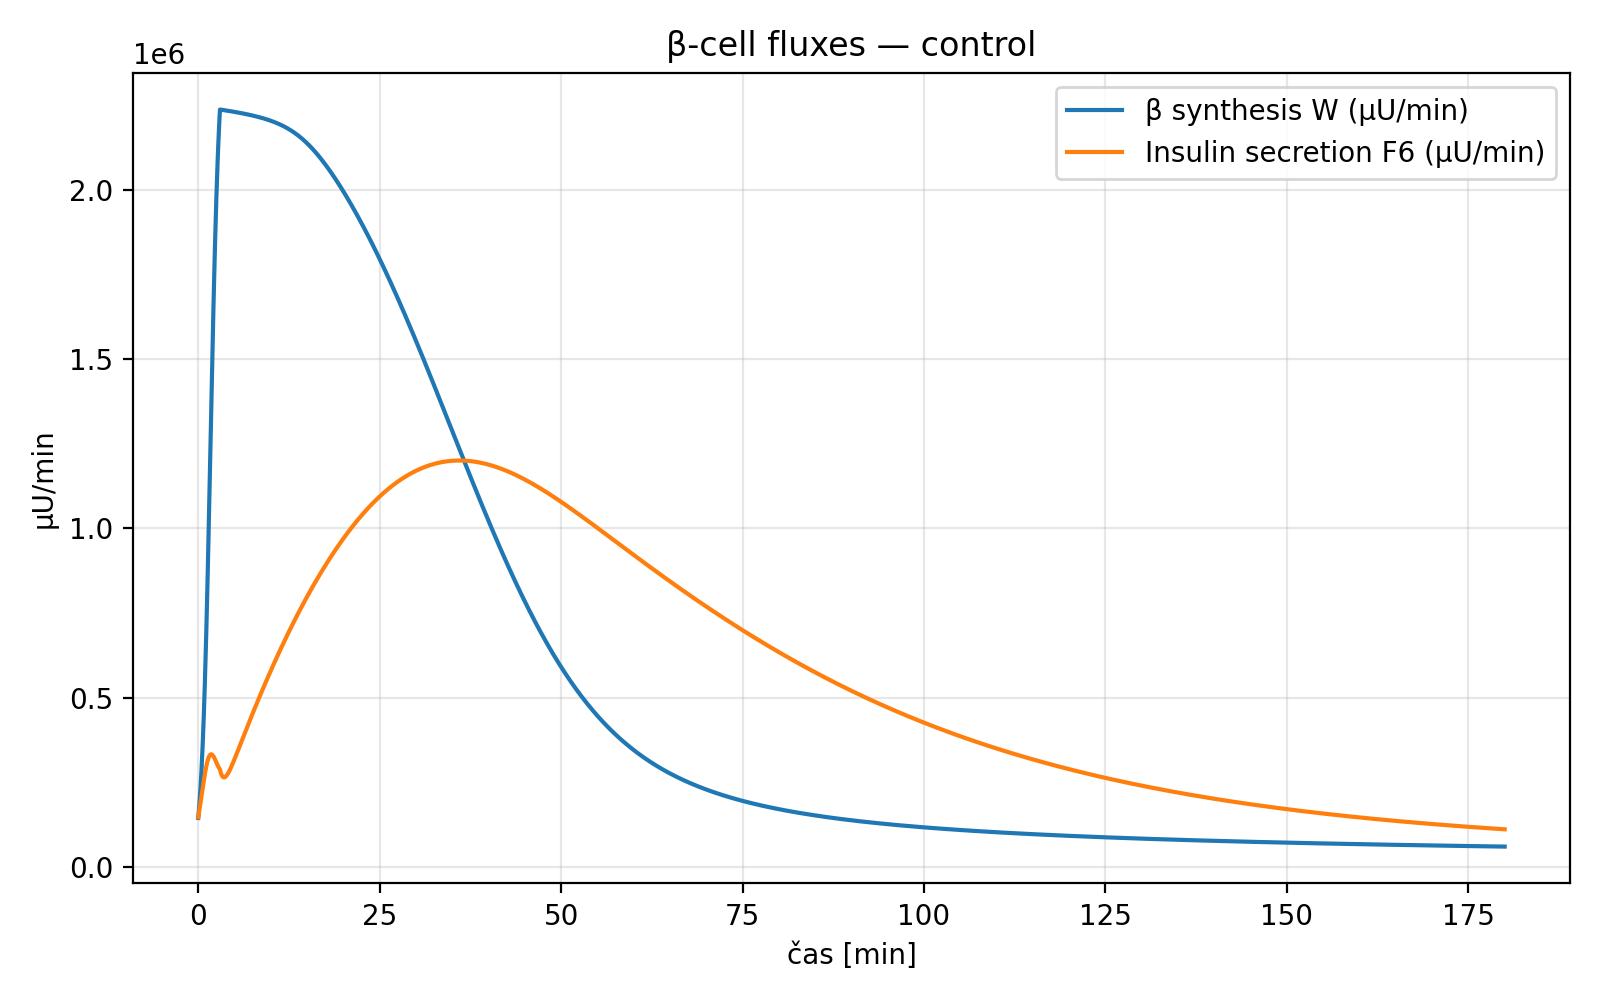
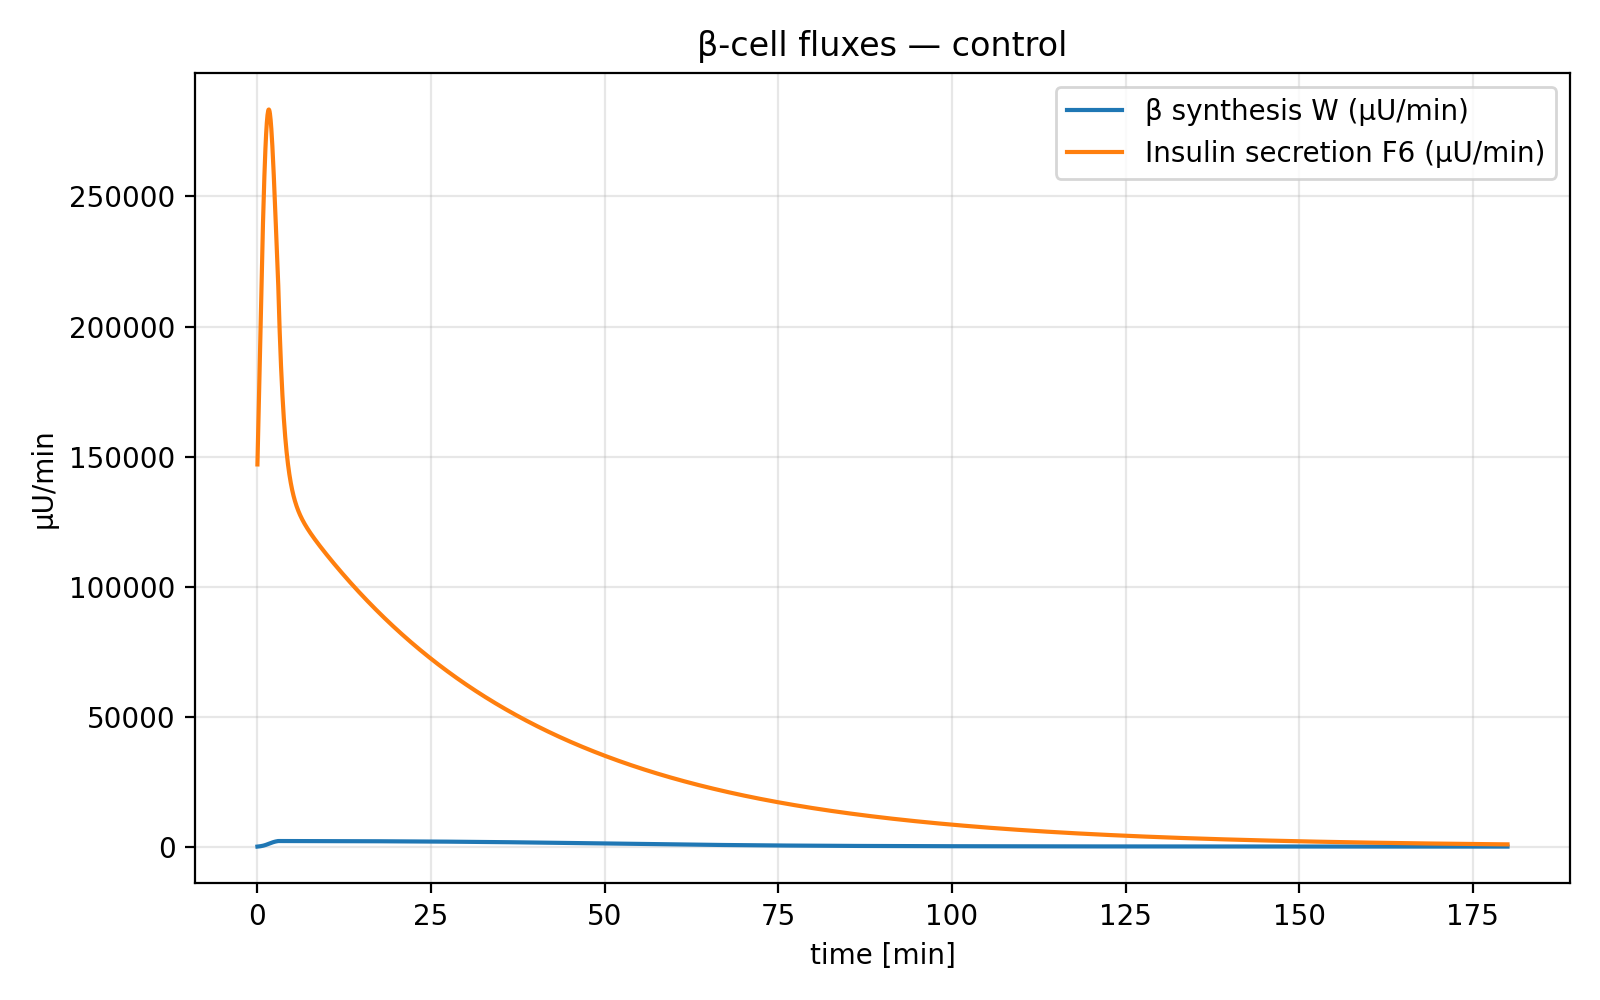
final commit

diff --git a/experiments.py b/experiments.py
@@ -1,15 +1,12 @@
-# experiments.py
 import numpy as np
-from utils import ensure_dir, value_at
-from params import set_volumes
+from utils import ensure_dir
 from scenarios import build_control, build_t2d
 from state import initial_state
 from model import rhs, integrate
 import processes as pr
-from analytics import series_dict, quick_metrics
+from analytics import series_dict
 from plotting_extras import (
-    stacked_fluxes, phase_plane, secretion_panels, ratios_and_times,
-    dose_response_plot, sensitivity_heatmap
+    stacked_fluxes, phase_plane, secretion_panels, sensitivity_heatmap
 )
 
 OUT = ensure_dir("results_extras")
@@ -22,46 +19,19 @@ def simulate(P, t_end=180.0, dt=0.05):
 
 def panels_extras(tag, T, y, f, s):
     d = ensure_dir(f"{OUT}/{tag}")
-    # 1) Stacked fluxes
+    # 1) Stacked hepatic/peripheral fluxes
     stacked_fluxes(T, f, d, tag)
     # 2) Phase-planes
-    phase_plane(T, y["y1"], f["NHGB"], "Glucose [mg/dl]", "NHGB [mg/min]", f"{d}/{tag}_phase_y1_vs_NHGB.png")
-    phase_plane(T, y["y4"], f["F4"],   "Interstitial insulin [µU/ml]", "Peripheral ID (F4) [mg/min]", f"{d}/{tag}_phase_y4_vs_F4.png")
-    phase_plane(T, y["y3"], f["F1"],   "Portal insulin [µU/ml]", "Hepatic production (F1) [mg/min]", f"{d}/{tag}_phase_y3_vs_F1.png")
-    # 3) Secretion & pools
+    phase_plane(T, y["y1"], f["NHGB"],
+                "Glucose [mg/dl]", "NHGB [mg/min]", f"{d}/{tag}_phase_y1_vs_NHGB.png")
+    phase_plane(T, y["y4"], f["F4"],
+                "Interstitial insulin [µU/ml]", "Peripheral ID (F4) [mg/min]",
+                f"{d}/{tag}_phase_y4_vs_F4.png")
+    phase_plane(T, y["y3"], f["F1"],
+                "Portal insulin [µU/ml]", "Hepatic production (F1) [mg/min]",
+                f"{d}/{tag}_phase_y3_vs_F1.png")
+    # 3) α/β-cell flux panels
     secretion_panels(T, s, y, d, tag)
-    # 4) Compartment ratio
-    ratios_and_times(T, y, d, tag)
-
-def dose_response(tag, build_P, doses=(0.2,0.25,0.33,0.4,0.5)):
-    """
-    Re-run with different IVGTT doses (g/kg).
-    Implemented by temporarily monkey-patching pr.inputs via a local wrapper.
-    """
-    peaks_g = []; peaks_i = []
-
-    # Keep original Z1, then wrap
-    from inputs import Z1_glucose_input as Z1_orig
-    def Z1_scaled(t, BW_kg, gkg):  # local helper
-        total_mg = gkg * BW_kg * 1000.0
-        return total_mg/3.0 if (0.0 <= t < 3.0) else 0.0
-
-    # Swap in model.rhs by closure? Easier: temporarily replace inputs.Z1 in runtime.
-    import inputs as inputs_mod
-    for gkg in doses:
-        # patch
-        inputs_mod.Z1_glucose_input = lambda t, BW_kg, gkg=gkg: Z1_scaled(t, BW_kg, gkg)
-        # run
-        P = build_P()
-        T, y, f, s = simulate(P)
-        peaks_g.append(float(np.max(y["y1"])))
-        peaks_i.append(float(np.max(y["y2"])))
-
-    # restore
-    inputs_mod.Z1_glucose_input = Z1_orig
-
-    dose_response_plot(np.array(doses), np.array(peaks_g), np.array(peaks_i),
-                       ensure_dir(f"{OUT}/{tag}"), f"{tag}")
 
 def sensitivity_grid(tag, build_P, xs, ys, xsetter, ysetter, t_eval=120.0):
     """
@@ -77,19 +47,22 @@ def sensitivity_grid(tag, build_P, xs, ys, xsetter, ysetter, t_eval=120.0):
             P = build_P()
             xsetter(P, xv); ysetter(P, yv)
             T, y, f, s = simulate(P)
-            Z[j,i] = y["y1"][np.argmin(np.abs(T - t_eval))]
+            # value at closest time to t_eval
+            idx = np.argmin(np.abs(T - t_eval))
+            Z[j, i] = y["y1"][idx]
 
-    sensitivity_heatmap(X, Y, Z, xlab=xsetter.__name__, ylab=ysetter.__name__,
-                        title=f"Sensitivity: G({t_eval} min)", outpath=f"{OUT}/{tag}_sens_heatmap.png")
+    sensitivity_heatmap(
+        X, Y, Z,
+        xlab=xsetter.__name__, ylab=ysetter.__name__,
+        title=f"Sensitivity: G({t_eval} min)",
+        outpath=f"{OUT}/{tag}_sens_heatmap.png"
+    )
 
 if __name__ == "__main__":
     # ---- CONTROL ----
     P_ctrl = build_control()
     T, y, f, s = simulate(P_ctrl)
     panels_extras("control", T, y, f, s)
-
-    # Dose–response (control)
-    dose_response("control", build_control)
 
     # Sensitivity (control): hepatic uptake scale (a21) × peripheral sensitivity (b33)
     xs = np.linspace(0.25e-3, 0.75e-3, 13)   # a21
@@ -105,12 +78,9 @@ if __name__ == "__main__":
     T, y, f, s = simulate(P_t2d)
     panels_extras("t2d", T, y, f, s)
 
-    # Dose–response (t2d)
-    dose_response("t2d", build_t2d)
-
     # Sensitivity (t2d): hepatic production level (a11) × glucagon inhibition shift (c71)
-    xs = np.linspace(5.0, 7.5, 13)   # a11
-    ys = np.linspace(110.0, 130.0, 13)  # c71
+    xs = np.linspace(5.0, 7.5, 13)       # a11
+    ys = np.linspace(110.0, 130.0, 13)   # c71
     def set_a11(P, v): setattr(P, "a11", float(v))
     def set_c71(P, v): setattr(P, "c71", float(v))
     set_a11.__name__ = "a11 (hepatic production scale)"

diff --git a/plotting_extras.py b/plotting_extras.py
@@ -1,11 +1,9 @@
-# plotting_extras.py
 import os, numpy as np, matplotlib.pyplot as plt
 from utils import ensure_dir
 
 def stacked_fluxes(T, f, outdir, tag):
     ensure_dir(outdir)
     plt.figure(figsize=(8,5))
-    # Positive sources up, sinks down for intuition
     up = np.clip(f["F1"], 0, None)
     down = f["F2"] + f["F3"] + f["F4"] + f["F5"]
     plt.stackplot(T, up, labels=["Hepatic production (F1)"])
@@ -13,7 +11,7 @@ def stacked_fluxes(T, f, outdir, tag):
                   labels=["Hepatic uptake (F2)","Renal (F3)","Peripheral ID (F4)","CNS/RBC IND (F5)"])
     plt.plot(T, f["NHGB"], lw=2, label="NHGB")
     plt.axhline(0,color='k',lw=0.8)
-    plt.legend(loc="upper right"); plt.xlabel("čas [min]"); plt.ylabel("mg/min")
+    plt.legend(loc="upper right"); plt.xlabel("time [min]"); plt.ylabel("mg/min")
     plt.title(f"Stacked fluxes — {tag}"); plt.tight_layout()
     plt.savefig(os.path.join(outdir, f"{tag}_stacked_fluxes.png"), dpi=200); plt.close()
 
@@ -21,7 +19,7 @@ def phase_plane(T, x, y, xlabel, ylabel, outpath, color_by_time=True):
     c = T if color_by_time else None
     plt.figure()
     sc = plt.scatter(x, y, c=c, s=10, cmap="viridis")
-    if color_by_time: plt.colorbar(sc, label="čas [min]")
+    if color_by_time: plt.colorbar(sc, label="time [min]")
     plt.xlabel(xlabel); plt.ylabel(ylabel)
     plt.title(f"Phase-plane: {ylabel} vs {xlabel}")
     plt.tight_layout(); plt.savefig(outpath, dpi=200); plt.close()
@@ -30,32 +28,16 @@ def secretion_panels(T, s, y, outdir, tag):
     plt.figure(figsize=(8,5))
     plt.plot(T, s["W"],  label="β synthesis W (µU/min)")
     plt.plot(T, s["F6"], label="Insulin secretion F6 (µU/min)")
-    plt.xlabel("čas [min]"); plt.ylabel("µU/min"); plt.title(f"β-cell fluxes — {tag}")
+    plt.xlabel("time [min]"); plt.ylabel("µU/min"); plt.title(f"β-cell fluxes — {tag}")
     plt.legend(); plt.grid(True,alpha=0.3); plt.tight_layout()
     plt.savefig(os.path.join(outdir, f"{tag}_beta_fluxes.png"), dpi=200); plt.close()
 
     plt.figure(figsize=(8,5))
     plt.plot(T, s["F7"], label="Glucagon secretion F7 (pg/min)")
-    plt.xlabel("čas [min]"); plt.ylabel("pg/min"); plt.title(f"α-cell flux — {tag}")
+    plt.xlabel("time [min]"); plt.ylabel("pg/min"); plt.title(f"α-cell flux — {tag}")
     plt.legend(); plt.grid(True,alpha=0.3); plt.tight_layout()
     plt.savefig(os.path.join(outdir, f"{tag}_alpha_flux.png"), dpi=200); plt.close()
 
-def ratios_and_times(T, y, outdir, tag):
-    r = y["y4"]/np.maximum(y["y2"], 1e-9)  # interstitial/plasma
-    plt.figure(figsize=(8,4))
-    plt.plot(T, r)
-    plt.xlabel("čas [min]"); plt.ylabel("y4 / y2 [–]")
-    plt.title(f"Compartment ratio (interstitial/plasma) — {tag}")
-    plt.grid(True,alpha=0.3); plt.tight_layout()
-    plt.savefig(os.path.join(outdir, f"{tag}_ratio_y4_to_y2.png"), dpi=200); plt.close()
-
-def dose_response_plot(doses_g_kg, peaks_glu, peaks_ins, outdir, tag):
-    plt.figure(); plt.plot(doses_g_kg, peaks_glu, '-o', label="Glucose peak [mg/dl]")
-    plt.plot(doses_g_kg, peaks_ins, '-o', label="Insulin peak [µU/ml]")
-    plt.xlabel("IVGTT dose [g/kg]"); plt.legend(); plt.grid(True,alpha=0.3)
-    plt.title(f"Dose–response — {tag}"); plt.tight_layout()
-    os.makedirs(outdir, exist_ok=True)
-    plt.savefig(os.path.join(outdir, f"{tag}_dose_response.png"), dpi=200); plt.close()
 
 def sensitivity_heatmap(X, Y, Z, xlab, ylab, title, outpath):
     plt.figure(figsize=(6,5))

diff --git a/processes.py b/processes.py
@@ -1,9 +1,8 @@
-# processes.py
 import numpy as np
 from utils import tanh
 from params import Params
 
-# ----- helpers -----
+#  helpers 
 def concentrations(state, P: Params):
     x1,u1p,u2p,u11,u12,u13,u2 = state
     y1 = x1 / P.V1 * 100.0
@@ -23,7 +22,7 @@ def deviations(y1,y2,y3,y4,y5,P):
 def scale_bw(rate_mg_min_per_kg: float, P: Params) -> float:
     return rate_mg_min_per_kg * P.BW_kg
 
-# ----- glucose unit processes (per kg) -----
+#   glucose unit processes (per kg)
 def F1_LiverProduction_perkg(x1,u12,u2,P: Params):
     y1,_,y3,_,y5 = concentrations((x1,0,0,0,u12,0,u2),P)
     e1,e12,_,e21 = deviations(y1,0,y3,0,y5,P)
@@ -59,7 +58,7 @@ def F5_PeripheralInd_perkg(x1,P: Params):
     M42 = P.a42 * 0.5*(1 + tanh(P.b42*(e1 + P.c42)))
     return 3e2 * (M41 + M42)
 
-# ----- secretions -----
+#   secretions  
 def W_insulin_synthesis(x1,P: Params) -> float:
     y1,_,_,_,_ = concentrations((x1,0,0,0,0,0,0),P)
     e1,_,_,_ = deviations(y1,0,0,0,0,P)
@@ -70,12 +69,23 @@ def F6_secretion(x1,u2p,P: Params) -> float:
     e1,_,_,_ = deviations(y1,0,0,0,0,P)
     return 0.5*P.a6*(1 + tanh(P.b6*(e1 + P.c6))) * u2p
 
-def F7_glucagon_secretion(x1,u13,P: Params) -> float:
-    y1,_,_,y4,_ = concentrations((x1,0,0,0,0,u13,0),P)
+def F7_glucagon_secretion(x1, u13, P: Params) -> float:
+    """α-cell glucagon secretion (pg/min), with tonic + floor + max applied."""
+    y1,_,_,y4,_ = concentrations((x1,0,0,0,0,u13,0), P)
     e1,_,e13,_ = deviations(y1,0,0,y4,0,P)
-    H7 = 0.5*(1 - tanh(P.b71*(e13 + P.c71)))
-    M7 = 0.5*(1 - tanh(P.b72*(e1  + P.c72)))
-    return P.a7 * H7 * M7
+
+    # inhibitions
+    H7 = 0.5*(1 - tanh(P.b71*(e13 + P.c71)))   # insulin effect
+    M7 = 0.5*(1 - tanh(P.b72*(e1  + P.c72)))   # glucose effect
+
+    # tonic + dynamic
+    F7 = P.F7_tonic + P.a7 * H7 * M7
+
+    # enforce floor and cap
+    if P.F7_max is None:
+        P.F7_max = P.F7_max_perkg * P.BW_kg
+    return float(np.clip(F7, P.F7_floor, P.F7_max))
+
 
 def solve_glucagon_gain(P: Params) -> float:
     # Basal inhibitions (at deviations = 0)
@@ -103,7 +113,6 @@ def solve_glucagon_gain(P: Params) -> float:
     P.a7 = a7
     return a7
 def F7_target(x1: float, u13: float, P: Params) -> float:
-    """Instantaneous α-cell target secretion before smoothing (pg/min)."""
     y1,_,_,y4,_ = concentrations((x1,0,0,0,0,u13,0), P)
     e1,_,e13,_  = deviations(y1,0,0,y4,0,P)
     H7 = 0.5*(1 - tanh(P.b71*(e13 + P.c71)))     # insulin inhibition
@@ -114,7 +123,6 @@ def F7_target(x1: float, u13: float, P: Params) -> float:
     return float(np.clip(F7, P.F7_floor, P.F7_max))
 
 def solve_insulin_basal(P: Params, u1p0: float, u2p0: float) -> Params:
-    """Anchor basal u1p/u2p so pools do not drift."""
     q = (2.0*P.k01*u1p0)/(P.a6*u2p0) - 1.0  # tanh(b6*c6)
     q = float(np.clip(q, -0.999, 0.999))
     P.c6 = (np.arctanh(q))/P.b6

diff --git a/params.py b/params.py
@@ -17,7 +17,7 @@ class Params:
     # beta-cell pools/secretion
     k01: float = 0.03; k21: float = 4.34e-3; k12: float = 0.0
     a5: float = 0.287; b5: float = 1.51e-2; c5: float = -92.3
-    a6: float = 2.4;   b6: float = 9.23e-3; c6: float = -10.0
+    a6: float = 1.4;   b6: float = 9.23e-3; c6: float = -10.0
 
     # insulin kinetics
     m01: float = 0.110; m02: float = 0.170; m12: float = 0.209
@@ -26,10 +26,10 @@ class Params:
     # glucagon kinetics
     h01: float = math.log(2)/8.0
 
-    # glucagon secretion (gain solved at runtime)
+    # glucagon secretion 
     a7:  float = None
-    b71: float = 0.0053; c71: float = 115.0
-    b72: float = 0.070;  c72: float = 52.0
+    b71: float = 0.0020; c71: float = 150.0
+    b72: float = 0.030;  c72: float = 80.0
 
     # Hepatic production F1 (per kg)
     a11: float = 5.5;  b11: float = 1.60; c11: float = -1.10
@@ -55,12 +55,11 @@ class Params:
     a41: float = 1.0e-3; b41: float = 0.031;  c41: float = -50.9
     a42: float = 4.6e-6; b42: float = 0.0144; c42: float = -20.2
 
-    # Glucagon secretion shaping (optional but recommended)
-    # Glucagon secretion shaping (recommended)
-    F7_tonic_frac: float = 0.60     # ↑ 60% of basal is tonic (constant) secretion
-    F7_max_perkg:  float = 400.0    # ↓ cap to 400 pg/min/kg  (~28,000 pg/min for 70 kg)
-    F7_floor:      float = 0.0      # lower clamp (pg/min)
-    tau7_min:      float = 8.0      # NEW: secretion smoothing time constant [min]
+    # Glucagon secretion shaping 
+    F7_tonic_frac: float = 0.30     
+    F7_max_perkg:  float = 100.0    
+    F7_floor:      float = 0.0      
+    tau7_min:      float = 8.0      
 
     # Filled by solve_glucagon_gain()
     F7_tonic: float = 0.0           # pg/min (computed)

diff --git a/scenarios.py b/scenarios.py
@@ -1,17 +1,13 @@
-# scenarios.py
 from params import Params, set_volumes
 from processes import solve_glucagon_gain, solve_insulin_basal
 
 def build_control() -> Params:
     P = set_volumes(Params())
-    # (paperfit_v3 already encoded in defaults from params.py)
     P.a7 = solve_glucagon_gain(P)
-    P = solve_insulin_basal(P, u1p0=4.9e6, u2p0=4.9e5)
+    P = solve_insulin_basal(P, u1p0=5e3, u2p0=5e2)
     return P
-
 def build_t2d() -> Params:
     P = set_volumes(Params())
-    # basals
     P.y1_bas = 115.0; P.y2_bas = P.y3_bas = P.y4_bas = 5.0; P.y5_bas = 150.0
     # secretion defect
     P.k01 = 0.02; P.a6 = 1.4; P.c6 = -6.0
@@ -23,10 +19,18 @@ def build_t2d() -> Params:
     # hepatic production bias (F1)
     P.a11 = 6.2; P.b11 = 1.50; P.c11 = -0.9; P.b13 = 0.022; P.c13 = 24.0
     # glucagon more stubborn
-    P.b71 = 0.0045; P.c71 = 120.0; P.b72 = 0.060; P.c72 = 55.0
+    P.b71 = 0.0015  
+    P.c71 = 180.0    
+    P.b72 = 0.015    
+    P.c72 = 90.0 
+    # enforce incomplete suppression
+    P.F7_floor = 200.0   
+
     # insulin kinetics tweak
     P.m01 = 0.125; P.m02 = 0.185; P.m31 = 0.045; P.m13 = 0.022
 
+    # finalize gains
     P.a7 = solve_glucagon_gain(P)
-    P = solve_insulin_basal(P, u1p0=4.9e6, u2p0=4.9e5)
+    P = solve_insulin_basal(P, u1p0=5e3, u2p0=5e2)
     return P
+

diff --git a/model.py b/model.py
@@ -1,4 +1,3 @@
-# model.py
 import numpy as np
 from params import Params
 from inputs import Z1_glucose_input, Z2_insulin_input
@@ -45,6 +44,6 @@ def integrate(f, t0, tf, dt, y0, P: Params):
         k3 = f(t+0.5*h,   Y[i-1]+0.5*h*k2,   P)
         k4 = f(t+h,       Y[i-1]+h*k3,       P)
         Y[i] = Y[i-1] + (h/6.0)*(k1 + 2*k2 + 2*k3 + k4)
-        # non-negativity clamp for amounts
+        # non-negativity clamp 
         Y[i,1:] = np.maximum(Y[i,1:], 0.0)
     return T, Y

diff --git a/run_ivgtt.py b/run_ivgtt.py
@@ -67,7 +67,3 @@ if __name__ == "__main__":
         d_ol
     )
 
-    # Console summaries
-    print("== SUMMARY: CONTROL =="); [print(f"{k}: {v}") for k,v in Sc.items()]
-    print("\n== SUMMARY: T2D ==");    [print(f"{k}: {v}") for k,v in Sd.items()]
-    print(f"\nOutputs written to: {base}")

diff --git a/utils.py b/utils.py
@@ -1,4 +1,3 @@
-# utils.py
 import os
 import numpy as np
 
@@ -7,7 +6,6 @@ def ensure_dir(path: str) -> str:
     return path
 
 def tanh(z):
-    # safe tanh to avoid overflow
     import numpy as np
     return np.tanh(np.clip(z, -50.0, 50.0))
 

diff --git a/analytics.py b/analytics.py
@@ -1,4 +1,3 @@
-# analytics.py
 import numpy as np
 from typing import Dict
 
